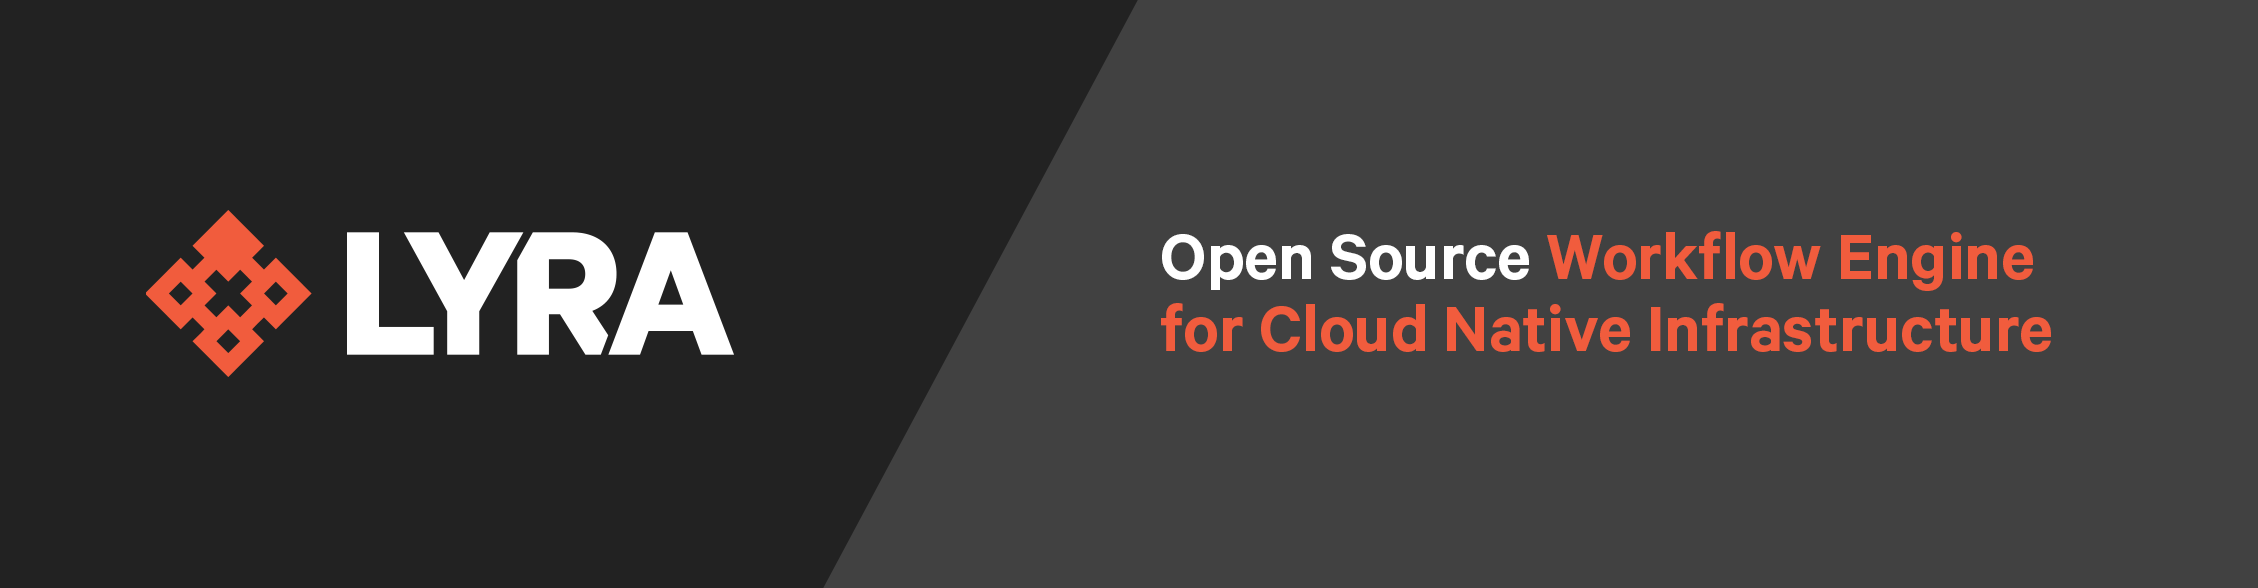
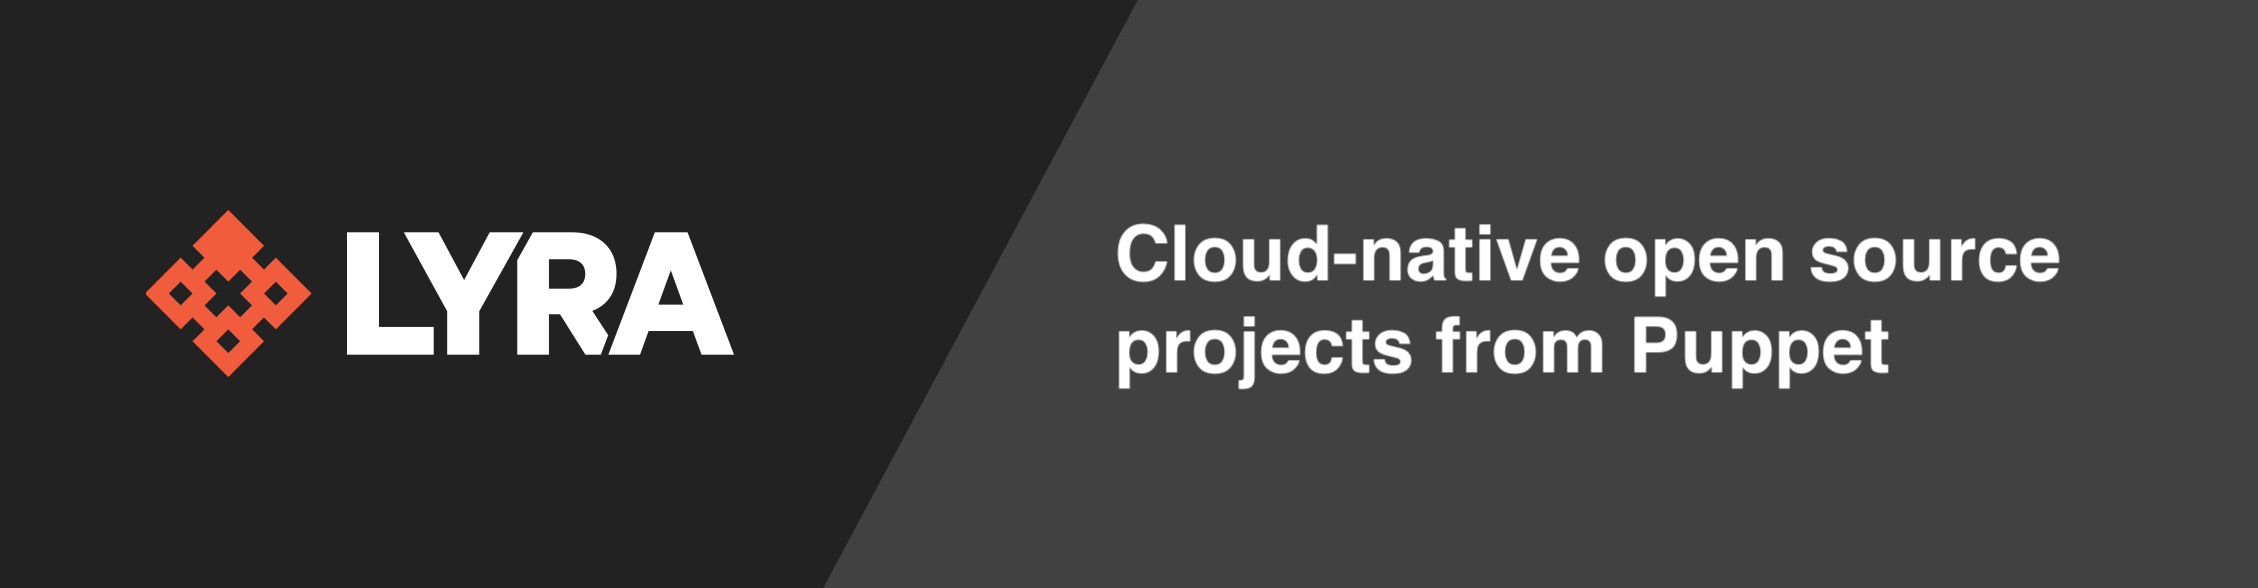
Update docs site to reflect current status of Lyra
This took way too long, but now the docs reflect the
current state of the project.

Changed region(s): [[0.496, 0.5204, 0.93, 0.6735], [0.496, 0.3673, 0.93, 0.4898]]

diff --git a/_layouts/default.html b/_layouts/default.html
@@ -21,11 +21,9 @@
           <img src="{{site.logo | relative_url}}" alt="Logo" />
         {% endif %}
 
-        <p>Cloud-native workflow automation</p>
+        <p>Cloud-native infrastructure tools</p>
 
-        <p class="view"><a href="https://github.com/lyraproj/lyra">View the Project on GitHub <small>lyraproj/lyra</small></a></p>
-
-        <p><a href="{{ site.url }}/docs/">Documentation</p>
+        <p><a href="{{ site.url }}/docs/">Archived Lyra docs</p>
 
 
         {% if site.show_downloads %}

diff --git a/index.md b/index.md
@@ -1,65 +1,14 @@
 ![Lyra logo](assets/lyrabanner.png)
 
 # What is Lyra?
-Lyra (“lee-ruh”) is an open source workflow engine for provisioning and managing cloud native infrastructure. Using infrastructure as code, Lyra enables you to declaratively provision and manage public cloud, private cloud, and other API-backed resources as well as orchestrate imperative actions. For more information, see the [README.md](https://github.com/lyraproj/lyra) in the main project repository.
+Lyra (lee-ruh) is a github organization started by [Puppet](https://puppet.com) to collect open-source projects and repositories that work with cloud infrastructure. They're mostly written in Go and universally welcome issues, comments, and PRs!  Some highlights and places to get started:
 
-# Getting started
+* [WASH](https://github.com/puppetlabs/wash) - a Wide-Area SHell, which presents cloud resources in a unified, familiar shell-like interface
+* [go-hiera](https://github.com/lyraproj/hiera) - A compact, clean implementation of Hiera (a hierarchical data store) for injecting values into configuration.
+* [dgo](https://github.com/lyraproj/dgo) - "Dynamic Go", a dynamic data type library that enables input validation and type checking
 
-The fastest way to get started is with the official Lyra Docker container. You can browse all the available tags and builds on [the Lyra org on dockerhub](https://hub.docker.com/r/lyraproj/lyra) or just grab the latest image: 
 
-1. Create a `lyra-local` directory to save your work locally. 
+# What _was_ Lyra?
+Lyra, the project, was originally intended to be an open source workflow engine for provisioning and managing cloud native infrastructure. Using infrastructure as code, Lyra enabled you to declaratively provision and manage public cloud, private cloud, and other API-backed resources as well as orchestrate imperative actions. For more information, see the [README.md](https://github.com/lyraproj/lyra) in the main project repository.
 
-   ```
-   cd
-   mkdir lyra-local
-   ```
-
-2. Pull the Lyra container:
-
-   ```
-   docker pull lyraproj/lyra:latest
-   ```
-
-3. Run the container in interactive mode and mount the directory at `/src/lyra/local` to your `local-lyra` directory.
-
-   ```
-   docker run -it \
-   --mount type=bind,src=$HOME/lyra-local,dst=/src/lyra/local \
-   lyraproj/lyra:latest /bin/ash
-   ```
-
-Homebrew support is available with:
-
-```
-brew install lyraproj/lyra/lyra
-```
-
-On other platforms, or if you're interested in hacking on the codebase directly, follow the [build instructions](https://github.com/lyraproj/lyra#build) in the README.
-
-Check out the [example workflows](https://github.com/lyraproj/lyra/tree/master/workflows) to get an idea of what Lyra can do. In particular the ["foobernetes.yaml"](https://github.com/lyraproj/lyra/blob/master/workflows/foobernetes.yaml) has a heavily annotated workflow that describes the deployment of infrastructure to a simple Kubernetes-like service.
-
-# Lyra compared to $tool
-
-There are a number of similar projects and products in this space. The following comparisons are not meant to judge the relative merits of Lyra against them, but rather to provide a frame of reference for users who might be familiar with one or more of them.
-
-## Lyra compared to Terraform
-
-- *Language:* Terraform is tied to HCL (Hashi Config Language), whereas Lyra has a _polyglot_ (multiple language) design. Currently supported language frontends for Lyra are YAML, Typescript, and a variant of the Puppet Language.
-
-- *Imperative actions:* Lyra lets you mix imperative actions (like sending a Slack notification or triggering Github Actions) with declarative resource management. While it's possible to do actions in Terraform, it's working against the desired-state model that's Terraform's core principle.
-
-- *Providers:* Terraform has a rich ecosystem of Providers which enable management of different cloud resources. Lyra has a [bridge](https://github.com/lyraproj/terraform-bridge) which allows it to make use of that ecosystem, but it also can use other content ecosystems, including native Kubernetes interfaces.
-
-- *Kubernetes*: Speaking of Kubernetes, one of Lyra's primary operating modes is as a k8s [Controller](https://github.com/lyraproj/lyra#deploying-workflows-with-kubernetes), allowing it to take part in cluster events and persist beyond point-in-time execution. There is a similar project in [rancher/terraform-operator](https://github.com/rancher/terraform-operator).
-
-## Lyra compared to Pulumi
-
-- *Application Programming*: There are a number of similarities between Lyra and Pulumi: the bridge to Terraform providers, polyglot interfaces, and describing infrastructure that spans cloud services and providers. However, Pulumi's primary users are application developers who want to define the infrastructure configuration their app requires *inside* the app itself. Lyra's primary users are responsible for getting infrastructure working *alongside* the application, allowing people who lean more towards the "ops" side of the "devops" continuum to blueprint app architectures which can then be instantiated for deployments.
-
-- *State*: Pulumi's business relies on users starting off at the free tier of their web service, which stores application state for each "stack" you configure, and upgrading to paid tiers for team and enterprise features. You can opt-out of the service, but it's central to the way Pulumi operates. Lyra manages an identity service which provides a mapping between the resources described in the workflow and the instantiation (the "identity") of those resources in the real world. From Lyra's perspective, the source of truth for state is received from the remote services. This identity is currently stored locally, but we do plan to [move it to a service](https://github.com/lyraproj/lyra/issues/57).
-
-## Lyra compared to Helm
-
-- *Non-Kubernetes deployments*: While Helm is a flexible deployment tool for Kubernetes applications, its ability to deploy to _non-Kubernetes_ APIs is limited. It's great if you're all-in on k8s but many people have only one foot in the kubernetes world and the other in traditional apps. If you're looking for one tool that can be used across deployment scenarios, Helm on its own won't be sufficient.
-
-- *Partial-kube deployments*:  Related, if you have an application composed of some k8s services but depends on, say, an RDS database in EC2 for its backing store, you'd need to deploy and use the [AWS Service Broker](https://aws.amazon.com/partners/servicebroker/), with its attendant complexity, or use your own scripting inside a Job or [init container](https://kubernetes.io/docs/concepts/workloads/pods/init-containers/) to create the instance. Lyra spans both Kubernetes and other cloud providers natively, allowing a single workflow to describe all components of the application, no matter what underlying service provisions them.
+As we developed Lyra, it became clear that the end-to-end workflow had a significant amount of overlap with other tools. The use cases for it are closely aligned with tools like Terraform and Pulumi as well as cloud native continuous delivery projects like Jenkins X, Tekton Pipelines, and Spinnaker. Rather than reinvent the wheel, we shifted to working upstream with existing projects and communities. The original codebase and project documentation are still available in the project repository.
